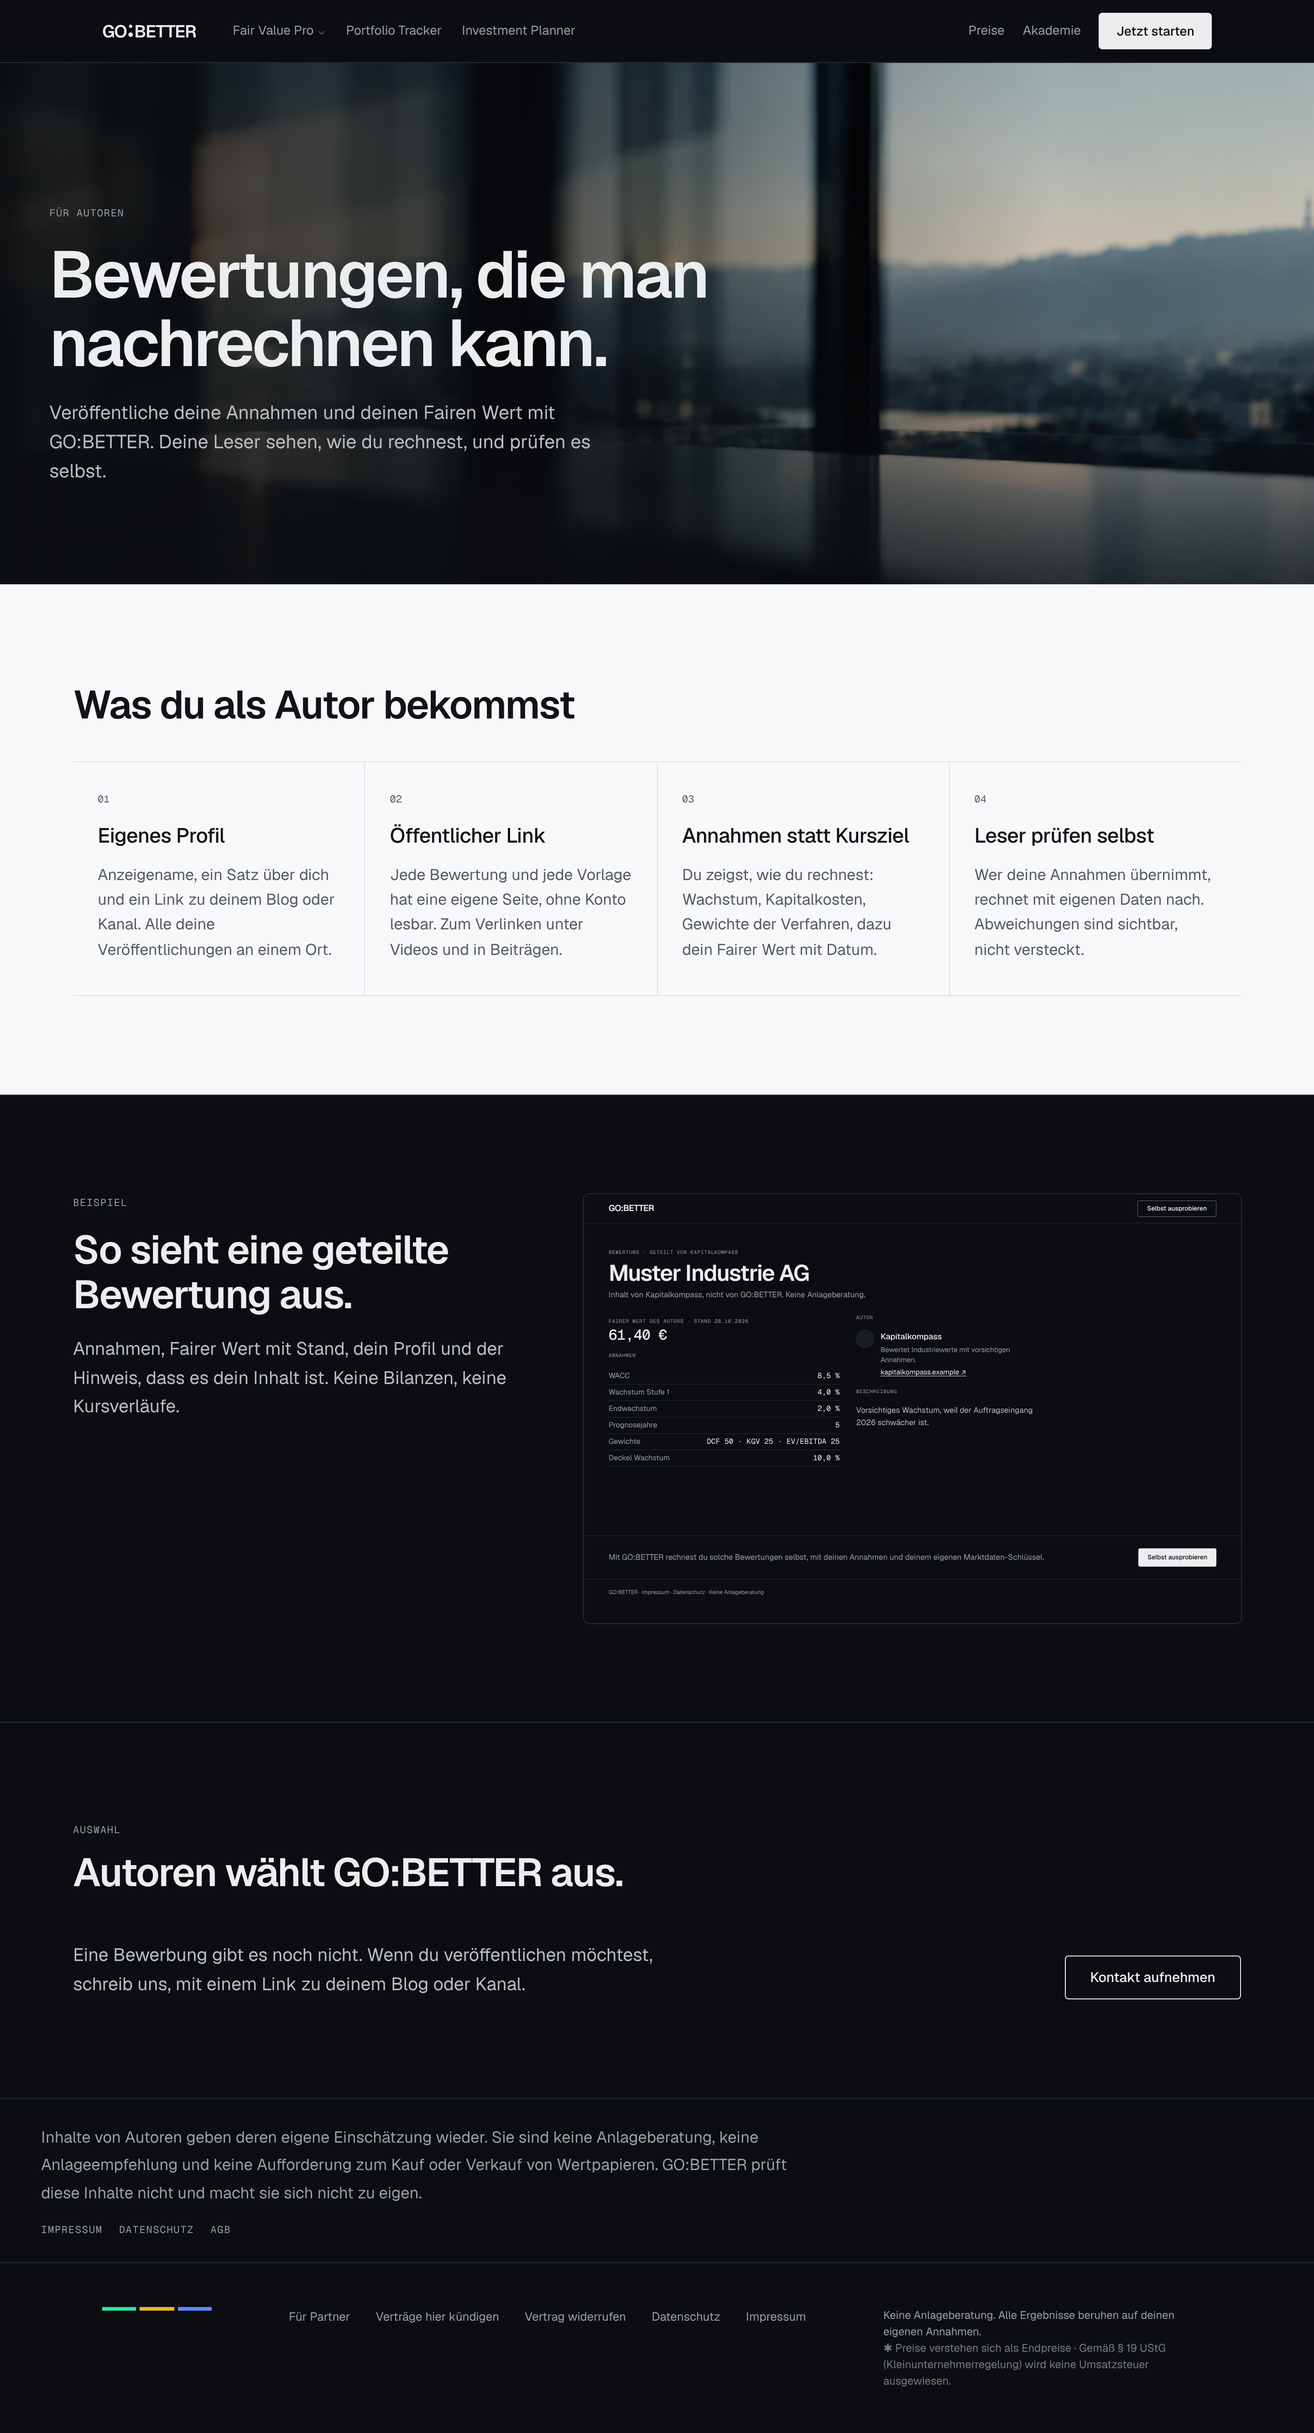
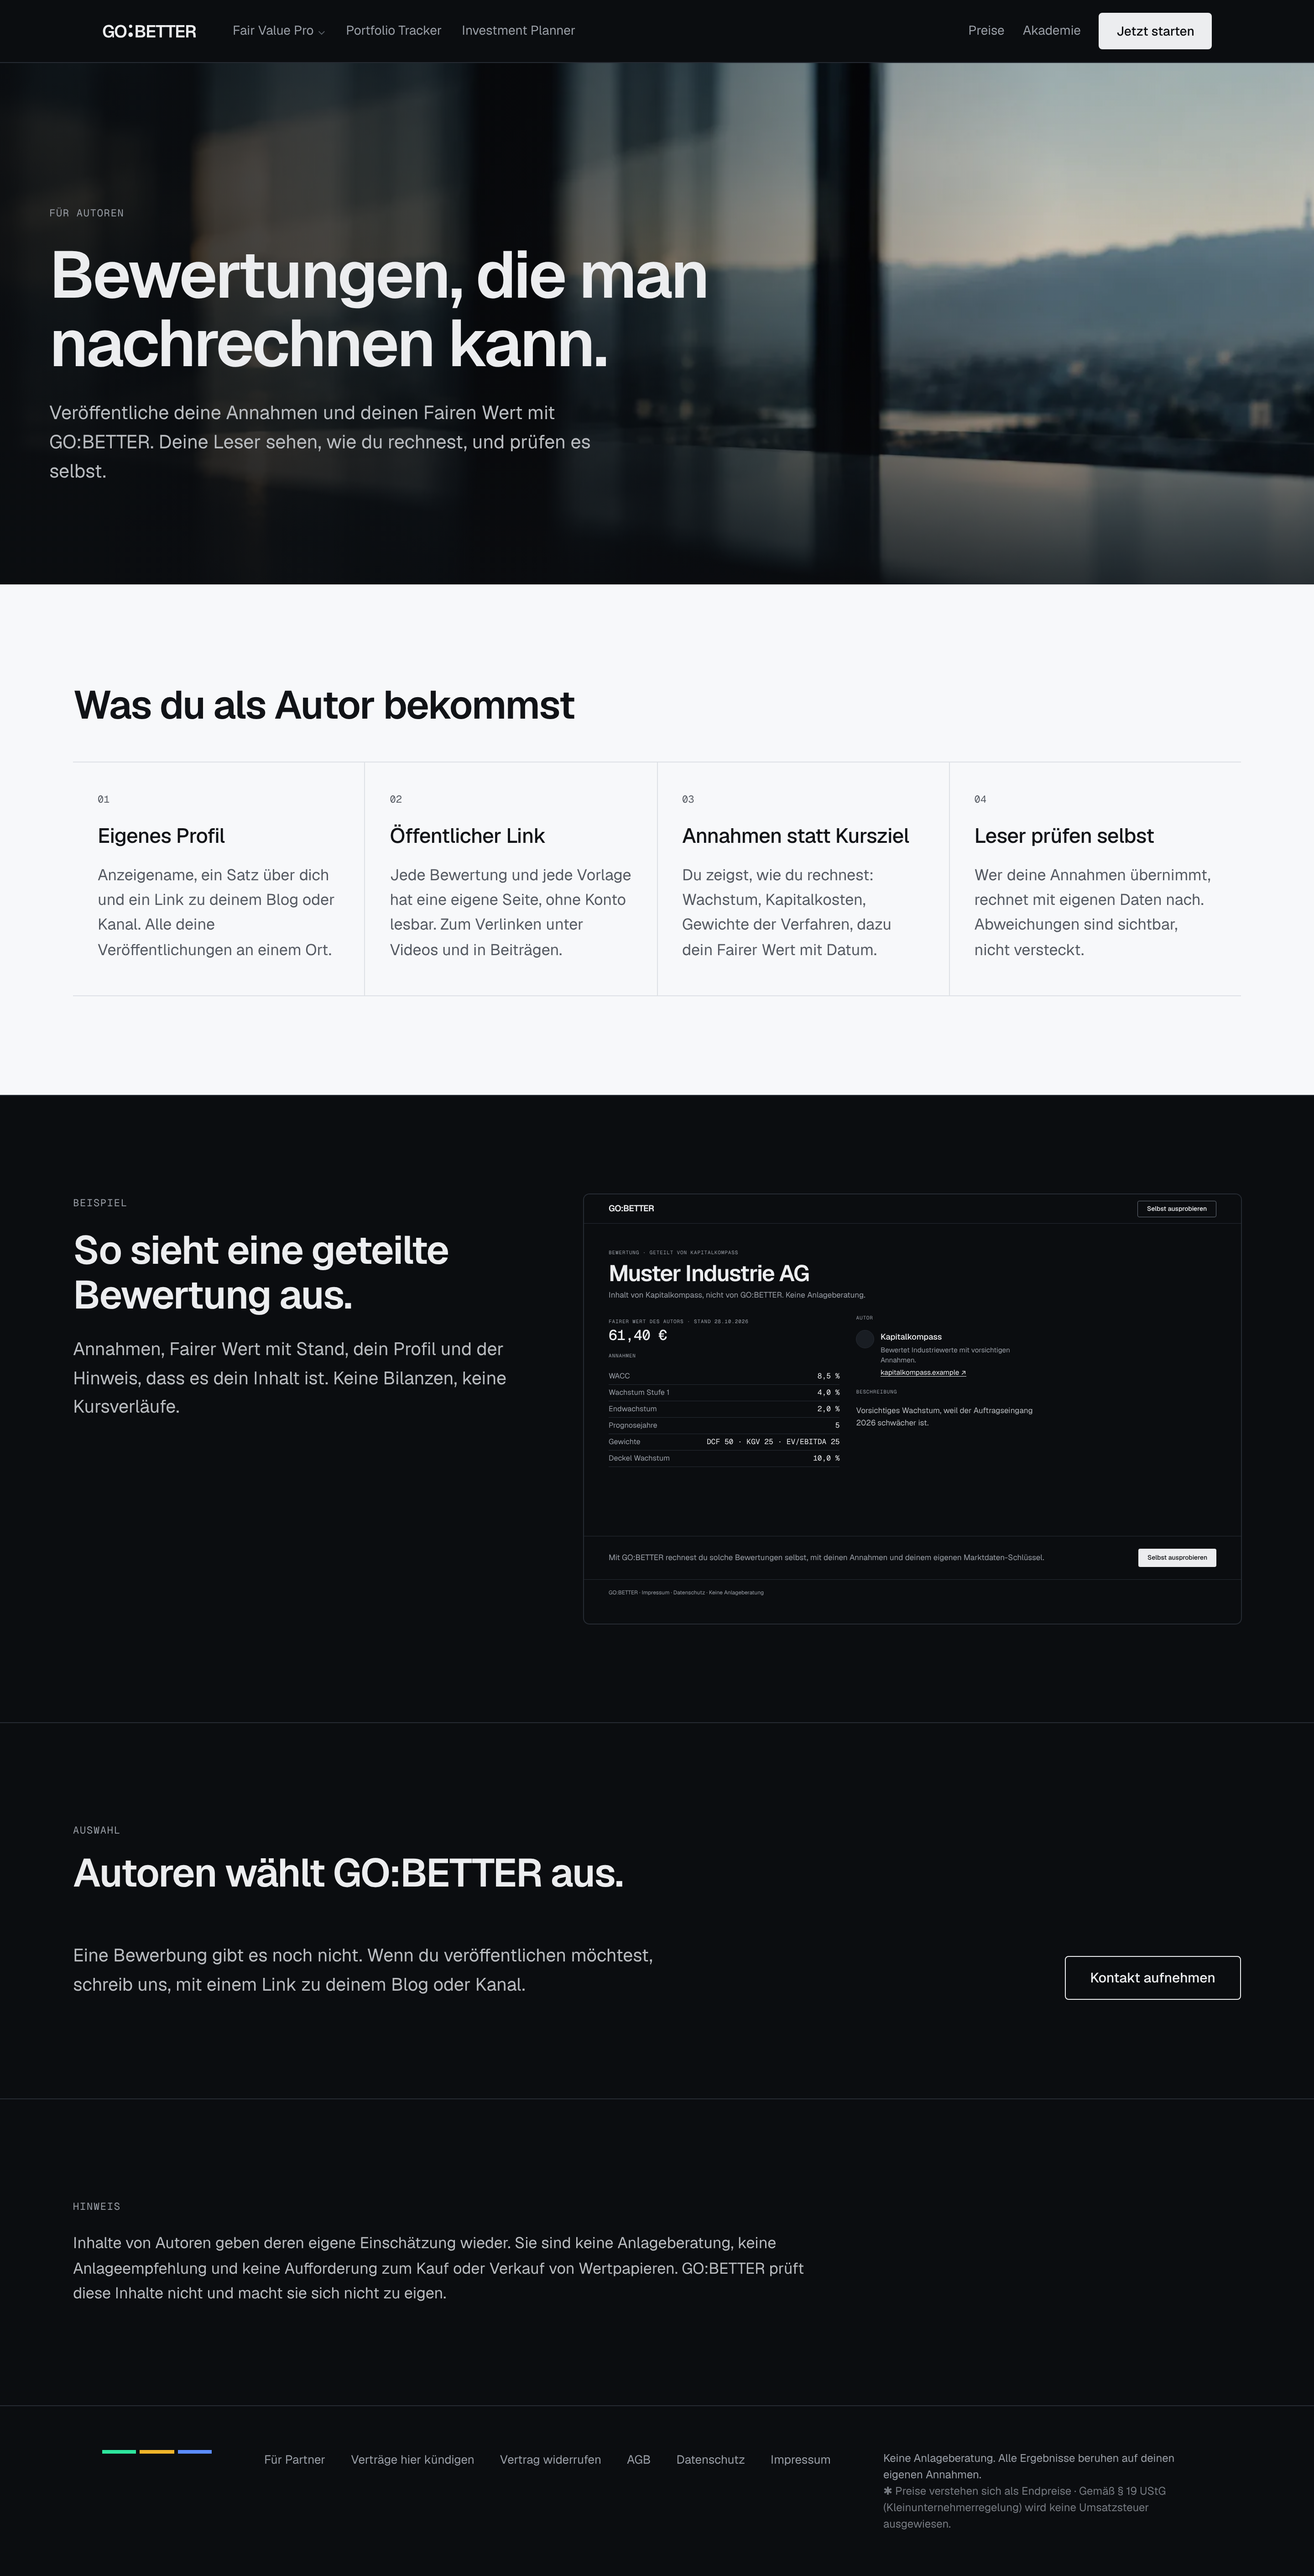
Für Autoren Fuß einsparen + AGB in Website-Fußzeile auf 23 Seiten
Ludmila 01.11.2026 zum PR #324 (im selben PR):

1. fuer-autoren.html: Der eigene Fuß mit Impressum/Datenschutz/AGB
   entfällt (doppelt zur Website-Fußzeile). Der Hinweistext
   „Inhalte von Autoren geben deren eigene Einschätzung wieder …"
   bleibt, steht aber als normaler Abschnitt an der linken
   Inhaltskante (wie die übrigen `.au-sec`-Abschnitte) direkt unter
   „Auswahl", vor der Website-Fußzeile.
   - CSS `.au-fn` entfernt (eigene Fuß-Zeile mit Trennlinie und
     Legal-Links).
   - CSS `.au-note` ergänzt (Fließtext in Grau, max 820 px, 1.6 lh).
   - HTML: `<div class="au-fn">` → `<section class="au-sec">` mit
     Eyebrow „Hinweis" und `<p class="au-note">`.

2. Website-Fußzeile: Link „AGB" (→ `agb.html` bzw. `../agb.html`)
   ergänzt, zwischen „Vertrag widerrufen" und „Datenschutz". Auf
   allen 23 Seiten mit `gb-foot-links` (einschließlich `agb.html`,
   `404.html`, `styleguide.html` und `fuer-autoren.html` — die
   Fußzeile ist überall identisch).
   - Insert-Logik: `<a href="…agb.html">AGB</a>` direkt nach
     `<a href="https://app.gobetter.trade/widerrufen">Vertrag
     widerrufen</a>`. Prefix (`../` für Unterordner) aus der
     bestehenden Datenschutz-Referenz derselben Seite abgeleitet.
   - `agb.html` zusätzlich nachgezogen: der Footer dort trug noch
     die alte Fassung ohne „Vertrag widerrufen" (schon vor dem
     Widerrufsbutton gebaut); jetzt identisch zu allen anderen.
   - Grep-Prüfung: Jede Datei mit `<div class="gb-foot-links">`
[…]

diff --git a/fuer-autoren.html b/fuer-autoren.html
@@ -118,13 +118,8 @@ main.autoren { background: #0B0D10; color: #ECEDEF; font-family: var(--font-sans
 .au-sel .cta:hover { background: #ECEDEF; color: #0B0D10; }
 @media (max-width: 720px) { .au-sel { grid-template-columns: 1fr; gap: 1.25rem; } }
 
-/* Fuß-Hinweis (ausführliche Fassung, ersetzt die kurze Entwurfsvariante) */
-.au-fn { font-size: 0.85rem; line-height: 1.6; color: #9A9FA7; padding: 1.5rem 2.5rem; border-top: 1px solid #262B33; display: flex; flex-direction: column; gap: 0.9rem; }
-.au-fn p { margin: 0; max-width: 820px; }
-.au-fn .links { display: flex; gap: 1rem; flex-wrap: wrap; font-family: var(--font-mono); font-size: 11px; letter-spacing: 0.08em; text-transform: uppercase; }
-.au-fn .links a { color: #9A9FA7; text-decoration: none; }
-.au-fn .links a:hover { color: #ECEDEF; }
-@media (max-width: 720px) { .au-fn { padding: 1.25rem; } }
+/* Hinweis zu Autor-Inhalten (an der linken Inhaltskante, direkt unter „Auswahl") */
+.au-note { font-size: 0.95rem; line-height: 1.6; color: #B9BCC0; max-width: 820px; margin: 0; }
 </style>
 </head>
 <body>
@@ -283,15 +278,13 @@ main.autoren { background: #0B0D10; color: #ECEDEF; font-family: var(--font-sans
     </div>
   </section>
 
-  <!-- Fuß-Hinweis (ausführliche Fassung, ersetzt die kurze Entwurfsvariante) -->
-  <div class="au-fn">
-    <p>Inhalte von Autoren geben deren eigene Einschätzung wieder. Sie sind keine Anlageberatung, keine Anlageempfehlung und keine Aufforderung zum Kauf oder Verkauf von Wertpapieren. GO:BETTER prüft diese Inhalte nicht und macht sie sich nicht zu eigen.</p>
-    <div class="links">
-      <a href="impressum.html">Impressum</a>
-      <a href="datenschutz.html">Datenschutz</a>
-      <a href="agb.html">AGB</a>
+  <!-- Hinweis zu Autor-Inhalten (an der linken Inhaltskante wie die übrigen Abschnitte, direkt unter „Auswahl") -->
+  <section class="au-sec">
+    <div class="wide" style="display:flex; flex-direction:column; gap:1rem;">
+      <span class="au-eyebrow">Hinweis</span>
+      <p class="au-note">Inhalte von Autoren geben deren eigene Einschätzung wieder. Sie sind keine Anlageberatung, keine Anlageempfehlung und keine Aufforderung zum Kauf oder Verkauf von Wertpapieren. GO:BETTER prüft diese Inhalte nicht und macht sie sich nicht zu eigen.</p>
     </div>
-  </div>
+  </section>
 
 </main>
 
@@ -305,6 +298,7 @@ main.autoren { background: #0B0D10; color: #ECEDEF; font-family: var(--font-sans
       <a href="partner.html">Für Partner</a>
       <a href="https://app.gobetter.trade/kuendigen">Verträge hier kündigen</a>
       <a href="https://app.gobetter.trade/widerrufen">Vertrag widerrufen</a>
+      <a href="agb.html">AGB</a>
       <a href="datenschutz.html">Datenschutz</a>
       <a href="impressum.html">Impressum</a>
     </div>

diff --git a/akademie/modul-02-fundamentalanalyse.html b/akademie/modul-02-fundamentalanalyse.html
@@ -1186,6 +1186,7 @@ Eigenkapitalkosten (CAPM) = risikofreier Zins  +  Beta × Marktrisikoprämie</di
       <a href="../partner.html">Für Partner</a>
       <a href="https://app.gobetter.trade/kuendigen">Verträge hier kündigen</a>
       <a href="https://app.gobetter.trade/widerrufen">Vertrag widerrufen</a>
+      <a href="../agb.html">AGB</a>
       <a href="../datenschutz.html">Datenschutz</a>
       <a href="../impressum.html">Impressum</a>
     </div>

diff --git a/akademie/modul-05-risikomanagement.html b/akademie/modul-05-risikomanagement.html
@@ -687,6 +687,7 @@ CRV  =  ────────────────────────
       <a href="../partner.html">Für Partner</a>
       <a href="https://app.gobetter.trade/kuendigen">Verträge hier kündigen</a>
       <a href="https://app.gobetter.trade/widerrufen">Vertrag widerrufen</a>
+      <a href="../agb.html">AGB</a>
       <a href="../datenschutz.html">Datenschutz</a>
       <a href="../impressum.html">Impressum</a>
     </div>

diff --git a/agb.html b/agb.html
@@ -195,6 +195,8 @@ main.legal p, main.legal ul li { font-size: 0.85rem; }
     <div class="gb-foot-links">
       <a href="partner.html">Für Partner</a>
       <a href="https://app.gobetter.trade/kuendigen">Verträge hier kündigen</a>
+      <a href="https://app.gobetter.trade/widerrufen">Vertrag widerrufen</a>
+      <a href="agb.html">AGB</a>
       <a href="datenschutz.html">Datenschutz</a>
       <a href="impressum.html">Impressum</a>
     </div>

diff --git a/akademie/modul-03-chartanalyse.html b/akademie/modul-03-chartanalyse.html
@@ -781,6 +781,7 @@ Aktie B: Kurs 100 €, ATR 4,00 € → normale Tagesschwankung 4 %
       <a href="../partner.html">Für Partner</a>
       <a href="https://app.gobetter.trade/kuendigen">Verträge hier kündigen</a>
       <a href="https://app.gobetter.trade/widerrufen">Vertrag widerrufen</a>
+      <a href="../agb.html">AGB</a>
       <a href="../datenschutz.html">Datenschutz</a>
       <a href="../impressum.html">Impressum</a>
     </div>

diff --git a/styleguide.html b/styleguide.html
@@ -817,6 +817,7 @@ body[data-product="td"]  [data-product-text="td"]  { display: inline; }
       <a href="partner.html">Für Partner</a>
       <a href="https://app.gobetter.trade/kuendigen">Verträge hier kündigen</a>
       <a href="https://app.gobetter.trade/widerrufen">Vertrag widerrufen</a>
+      <a href="agb.html">AGB</a>
       <a href="datenschutz.html">Datenschutz</a>
       <a href="impressum.html">Impressum</a>
     </div>

diff --git a/fair-value-pro/pro-mode.html b/fair-value-pro/pro-mode.html
@@ -821,6 +821,7 @@ nav a.nav-cta:hover { background: var(--neon-dim); }
       <a href="../partner.html">Für Partner</a>
       <a href="https://app.gobetter.trade/kuendigen">Verträge hier kündigen</a>
       <a href="https://app.gobetter.trade/widerrufen">Vertrag widerrufen</a>
+      <a href="../agb.html">AGB</a>
       <a href="../datenschutz.html">Datenschutz</a>
       <a href="../impressum.html">Impressum</a>
     </div>

diff --git a/index.html b/index.html
@@ -601,6 +601,7 @@ section.gb-tiles-section { padding: 0; }
       <a href="partner.html">Für Partner</a>
       <a href="https://app.gobetter.trade/kuendigen">Verträge hier kündigen</a>
       <a href="https://app.gobetter.trade/widerrufen">Vertrag widerrufen</a>
+      <a href="agb.html">AGB</a>
       <a href="datenschutz.html">Datenschutz</a>
       <a href="impressum.html">Impressum</a>
     </div>

diff --git a/partner.html b/partner.html
@@ -561,6 +561,7 @@ body { background: var(--bg); }
       <a href="partner.html">Für Partner</a>
       <a href="https://app.gobetter.trade/kuendigen">Verträge hier kündigen</a>
       <a href="https://app.gobetter.trade/widerrufen">Vertrag widerrufen</a>
+      <a href="agb.html">AGB</a>
       <a href="datenschutz.html">Datenschutz</a>
       <a href="impressum.html">Impressum</a>
     </div>

diff --git a/akademie/index.html b/akademie/index.html
@@ -455,6 +455,7 @@
       <a href="../partner.html">Für Partner</a>
       <a href="https://app.gobetter.trade/kuendigen">Verträge hier kündigen</a>
       <a href="https://app.gobetter.trade/widerrufen">Vertrag widerrufen</a>
+      <a href="../agb.html">AGB</a>
       <a href="../datenschutz.html">Datenschutz</a>
       <a href="../impressum.html">Impressum</a>
     </div>

diff --git a/akademie/modul-01-grundlagen.html b/akademie/modul-01-grundlagen.html
@@ -776,6 +776,7 @@
       <a href="../partner.html">Für Partner</a>
       <a href="https://app.gobetter.trade/kuendigen">Verträge hier kündigen</a>
       <a href="https://app.gobetter.trade/widerrufen">Vertrag widerrufen</a>
+      <a href="../agb.html">AGB</a>
       <a href="../datenschutz.html">Datenschutz</a>
       <a href="../impressum.html">Impressum</a>
     </div>

diff --git a/akademie/modul-04-einstieg.html b/akademie/modul-04-einstieg.html
@@ -611,6 +611,7 @@
       <a href="../partner.html">Für Partner</a>
       <a href="https://app.gobetter.trade/kuendigen">Verträge hier kündigen</a>
       <a href="https://app.gobetter.trade/widerrufen">Vertrag widerrufen</a>
+      <a href="../agb.html">AGB</a>
       <a href="../datenschutz.html">Datenschutz</a>
       <a href="../impressum.html">Impressum</a>
     </div>
